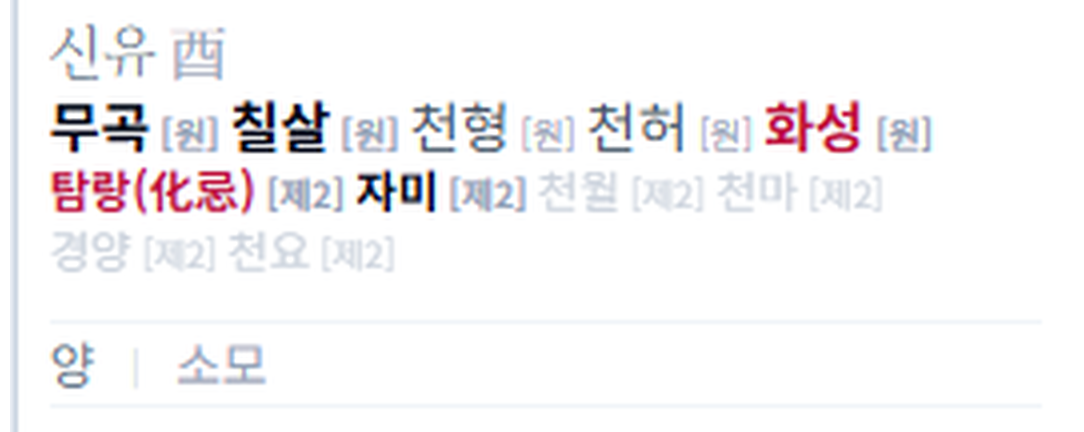
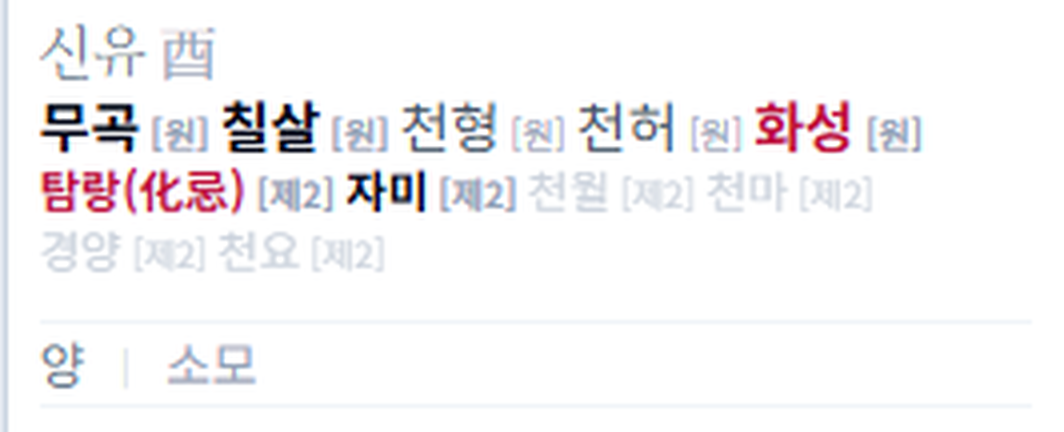
숏폼 엔진: 그림 fit 옵션과 브랜드 머리글자
- fit:'contain' 을 주면 글자 있는 그림이 좌우로 잘리지 않는다
- 배지 글자를 footerBrand 머리글자로 (MindLumi 에 S 가 찍히고 있었다)

Claude-Session: https://claude.ai/code/session_01EWzb93VKrZncHt6wXwJQGJ

diff --git a/_shorts/remotion/src/SureViewShort.tsx b/_shorts/remotion/src/SureViewShort.tsx
@@ -12,7 +12,7 @@ type Card = {
   cta?: boolean;
   // 캐릭터 그림. image 는 한 장, images 는 두 장을 나란히(별이 만나는 장면).
   // 그림이 있으면 다른 연출(big/flow/grid)보다 우선한다 - 자막 띠까지 공간이 510px 뿐이라 겹쳐 쓸 수 없다.
-  image?: string; images?: string[]; caption?: string;
+  image?: string; images?: string[]; caption?: string; fit?: "cover" | "contain";
   startFrame: number; durFrames: number; words: Word[]; idx: number;
 };
 export type Data = {
@@ -111,7 +111,10 @@ const Stage: React.FC<{ card: Card; accent: string; accent2: string; cta: Data["
                 opacity: a, transform: `translateY(${(1 - a) * 28}px) scale(${0.94 + a * 0.06})`,
                 display: "flex", alignItems: "center", justifyContent: "center",
               }}>
-                <Img src={s} style={{ width: "100%", height: "100%", objectFit: "cover" }} />
+                {/* cover 가 기본. 캐릭터는 꽉 채우는 게 낫다.
+                    명반 캡처처럼 글자가 들어간 그림은 fit:"contain" 을 줘야 한다.
+                    안 주면 좌우가 잘려 별 이름이 반쯤 날아간다(2026-11-15 에 실제로 그랬다). */}
+                <Img src={s} style={{ width: "100%", height: "100%", objectFit: card.fit === "contain" ? "contain" : "cover" }} />
               </div>
             );
           })}
@@ -244,7 +247,7 @@ const CardView: React.FC<{ card: Card; data: Data; total: number }> = ({ card, d
       {/* brand strip - kept high (above YouTube Shorts bottom UI) */}
       <div style={{ position: "absolute", left: 90, right: 150, top: 116, display: "flex", alignItems: "center", justifyContent: "space-between", opacity: 0.9 }}>
         <div style={{ display: "flex", alignItems: "center", gap: 16, fontSize: 32, fontWeight: 800, color: "#dbe7f0" }}>
-          <div style={{ width: 42, height: 42, borderRadius: 11, background: `linear-gradient(135deg,${data.accent},#3862b4)`, display: "flex", alignItems: "center", justifyContent: "center", fontSize: 24, fontWeight: 900, color: "#06131f" }}>S</div>{data.footerBrand}
+          <div style={{ width: 42, height: 42, borderRadius: 11, background: `linear-gradient(135deg,${data.accent},#3862b4)`, display: "flex", alignItems: "center", justifyContent: "center", fontSize: 24, fontWeight: 900, color: "#06131f" }}>{data.footerBrand.charAt(0).toUpperCase()}</div>{data.footerBrand}
         </div>
         <div style={{ fontSize: 30, fontWeight: 700, color: "#8aa0b4" }}>{data.series} #{String(card.idx + 1).padStart(2, "0")}</div>
       </div>
